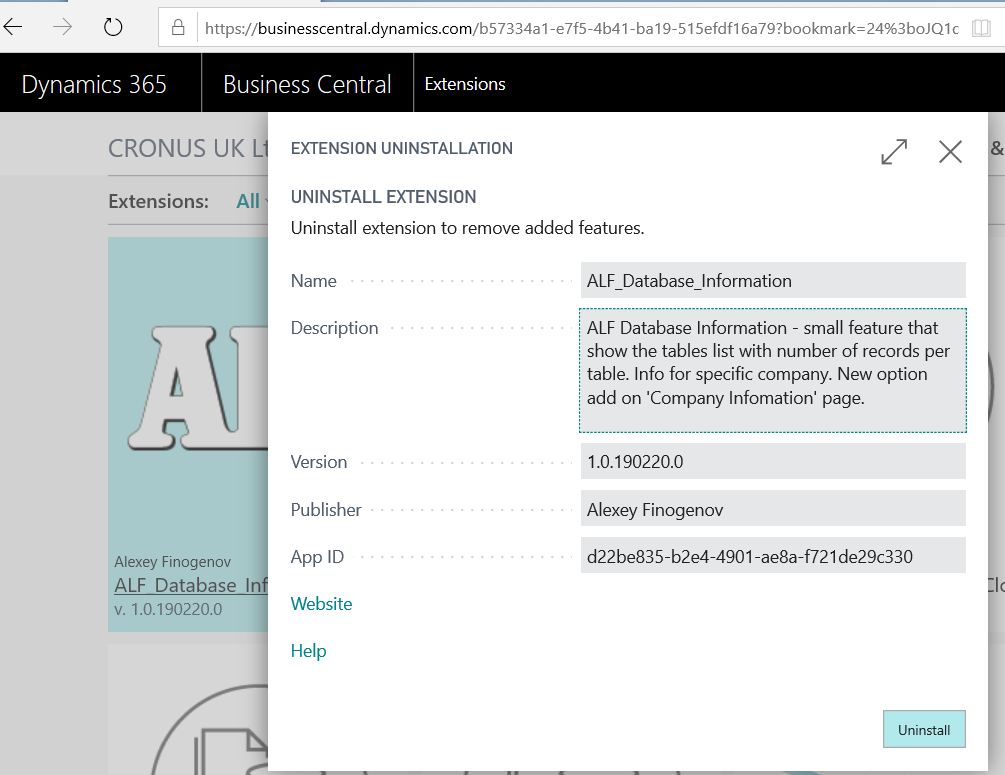
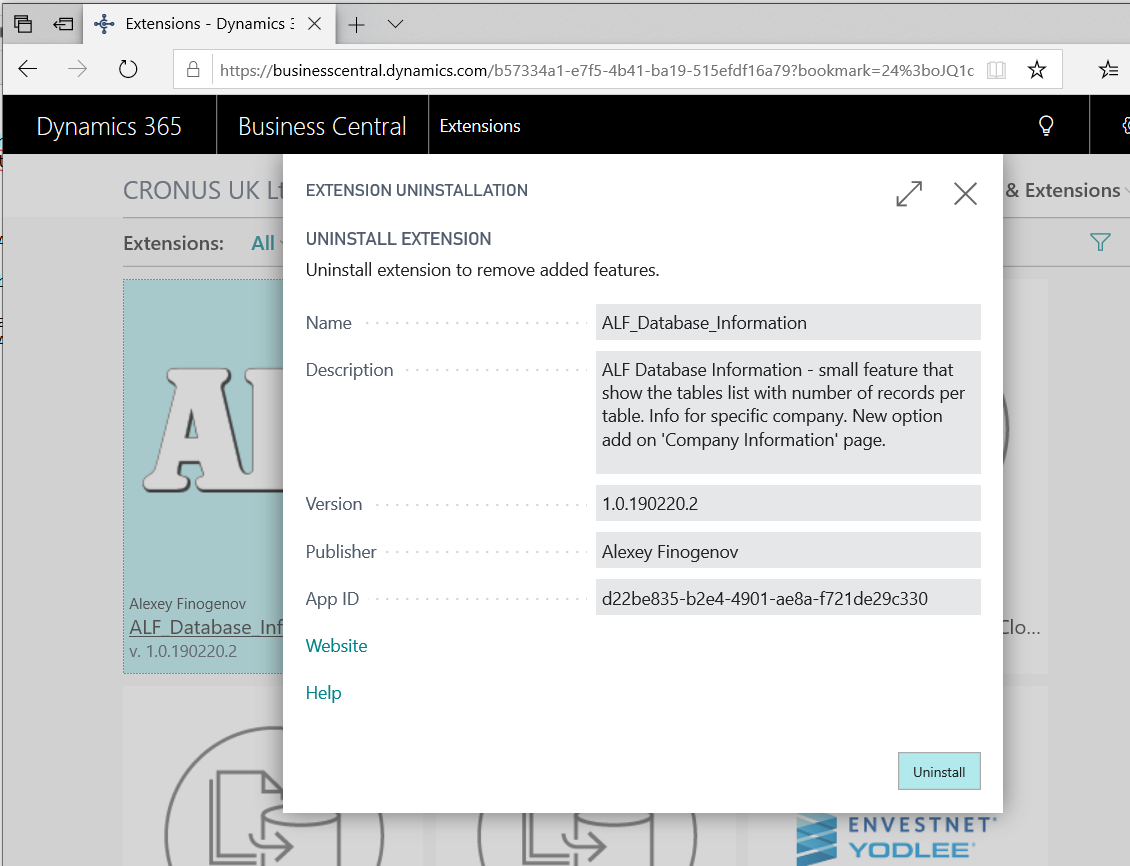
update
update

diff --git a/readme.md b/readme.md
@@ -1,6 +1,6 @@
 ## ALF Database Information
 ![](media/ALFlogo.png)
-> ALF Database Information - small feature that show the tables list with number of records per table. Info for specific company. New option add on 'Company Infomation' page.
+> ALF Database Information - small feature that show the tables list with number of records per table. Info for specific company. New option add on 'Company Information' page.
 
 ![](media/ALF_Database_Information01.png)
 
@@ -8,7 +8,7 @@ Github project: <https://github.com/finn777/ALF_Database_Information>
  
 Readme: <https://github.com/finn777/ALF_Database_Information/blob/master/readme.md>
  
-.app file: <https://github.com/finn777/ALF_Database_Information/blob/master/AL/ALF_Database_Information/Alexey%20Finogenov_ALF_Database_Information_1.0.190220.0.app> 
+.app file: <https://github.com/finn777/ALF_Database_Information/blob/master/AL/ALF_Database_Information/Alexey%20Finogenov_ALF_Database_Information_1.0.190220.2.app> 
 
 App pictures -
 
